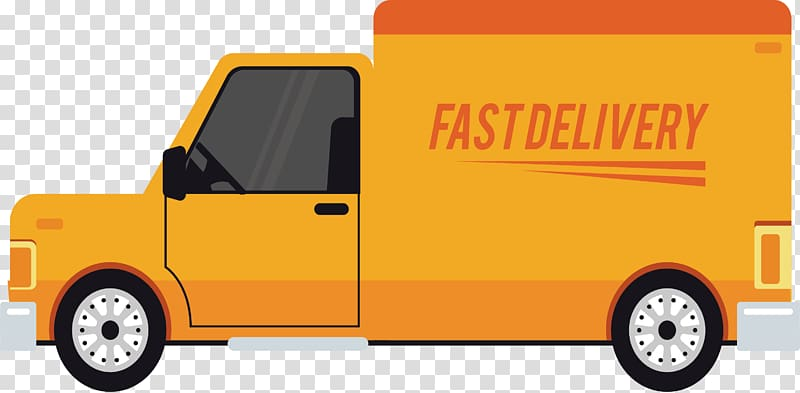
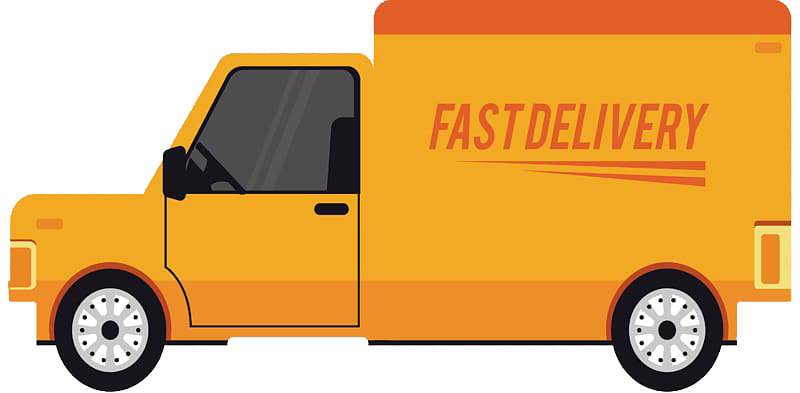
Update

diff --git a/public/css/main/pay&del.css b/public/css/main/pay&del.css
@@ -5,7 +5,7 @@
 
 .payanddelimg {
   margin-top: 20px;
-  width: 100%;
+  width: 70%;
   height: auto;
 }
 

diff --git a/app/Http/Controllers/Admin/ProductController.php b/app/Http/Controllers/Admin/ProductController.php
@@ -22,7 +22,7 @@ class ProductController extends Controller
      */
     public function index()
     {
-        $products = Product::all();
+        $products = Product::with('category')->get();
         return view('auth.products.index', compact('products'));
     }
 
@@ -52,7 +52,7 @@ class ProductController extends Controller
         'properties.*.value' => 'min:1',
         ]);
         $data = $request->all();
-        $data['url'] = mb_strtolower(preg_replace('/(?!^)\s+/', '_', preg_replace('/[^\00-\255]+/u', '', $request->name)));
+        $data['url'] = mb_strtolower(preg_replace('/(?!^)\s+/', '_', preg_replace('/[^\00-\255]+/u', '', $request->url)));
         $data['updated_at'] = Carbon::now();
         $data['created_at'] = Carbon::now();
         $product = Product::create($data);
@@ -67,14 +67,15 @@ class ProductController extends Controller
               $prodimg->storeAs('products/'.$product->id.'/', $dataimg['path']);
               ProductImage::create($dataimg);
             };
-          }else{
-            $dataimg['product_id'] = $product->id;
-            $dataimg['path'] = 'no-img.png';
-            $dataimg['position'] = "1";
-            $dataimg['updated_at'] = Carbon::now();
-            $dataimg['created_at'] = Carbon::now();
-            ProductImage::create($dataimg);
           };
+          // else{
+          //   $dataimg['product_id'] = $product->id;
+          //   $dataimg['path'] = '/img/products/no-img.png';
+          //   $dataimg['position'] = "1";
+          //   $dataimg['updated_at'] = Carbon::now();
+          //   $dataimg['created_at'] = Carbon::now();
+          //   ProductImage::create($dataimg);
+          // };
         return redirect()->route('products.index')->with('success', 'Продукт '.$product->name.' добавлен успешно!');
     }
 
@@ -117,7 +118,7 @@ class ProductController extends Controller
         'properties.*.value' => 'min:1',
         ]);
         $data = $request->all();
-        // $data['url'] = mb_strtolower(preg_replace('/(?!^)\s+/', '_', preg_replace('/[^\00-\255]+/u', '', $request->name)));
+        $data['url'] = mb_strtolower(preg_replace('/(?!^)\s+/', '_', preg_replace('/[^\00-\255]+/u', '', $request->url)));
         $data['updated_at'] = Carbon::now();
         $product->update($data);
         if(isset($request->imgfordel)){
@@ -146,7 +147,7 @@ class ProductController extends Controller
             ProductImage::create($dataimg);
           };
         };
-        return redirect()->route('products.edit', ['product' => $product->id])->with('success', 'Данные продукта '.$product->name.' успешно обновлен!');
+        return redirect()->route('products.edit', ['product' => $product->id])->with('success', 'Данные продукта '.$product->name.' успешно обновлены!');
     }
 
     /**
@@ -157,10 +158,12 @@ class ProductController extends Controller
      */
     public function destroy(Product $product)
     {
+      if($product->productImage){
         foreach ($product->productImage as $prod) {
           Storage::disk('public')->exists('products/'.$product->id.'/'.$prod->path)?Storage::disk('public')->delete('products/'.$product->id.'/'.$prod->path):NULL;
           $prod->delete();
         }
+      }
         $product->delete();
 
         return redirect()->route('products.index')->with('danger', 'Продукт '.$product->name.' успешно удален!');

diff --git a/resources/views/auth/products/form.blade.php b/resources/views/auth/products/form.blade.php
@@ -118,14 +118,14 @@
                         <label class="btn btn-dark btn-file">
                             Загрузить <input type="file" style="display: none;" name="prodimg[]" id="prodimg" multiple>
                         </label>
-                        @isset($product)
+                        @isset($product->productImage)
                             <div class="preview d-flex flex-wrap">
                           @foreach($product->productImage as $prodimg)
                             <a class="removeImgBtn" href="#">
-                              <img src="{{Storage::url('products/'.$product->id)}}/{{ $prodimg->path}}" alt="Preview images">
+                              <img src="{{Storage::url('products/'.$product->id.'/'.$prodimg->path)}}" alt="Preview images">
                               <span>Кликните для удаления</span>
                               <div class="d-none">{{$prodimg->path}}</div>
-                              <input type="hidden" name="imgfordel[]" id="imgfordel">
+                              <input type="hidden" name="imgfordel[]">
                             </a>
                           @endforeach
                             </div>
@@ -141,7 +141,7 @@
                   <div class="row">
                       <div class="col-lg-12">
                           @isset($product)
-                            @for ($i=0; $i < (is_countable($product->properties) && count($product->properties)); $i++)
+                            @for ($i=0; $i < (count($product->properties)); $i++)
                             <div id="inputFormRow">
                                 <div class="input-group mb-3">
                                       <input type="text" name="properties[{{ $i }}][key]" value="{{ $product->properties[$i]['key'] ?? '' }}" class="form-control m-input ml-3" placeholder="Свойство" autocomplete="off">
@@ -152,10 +152,11 @@
                                 </div>
                             </div>
                           @endfor
-                          <input type="hidden" id="icount" value="{{ is_countable($product->properties) && count($product->properties) }}">
+                          <input type="hidden" id="icount" value="{{ count($product->properties) }}">
                         @endisset
+                        @empty($product)
                           @if(Session::has('properties'))
-                            @for ($i=0; $i < (is_countable(Session::get('properties')) && count(Session::get('properties'))); $i++)
+                            @for ($i=0; $i < (count(Session::get('properties'))); $i++)
                             <div id="inputFormRow">
                                 <div class="input-group mb-3">
                                       <input type="text" name="properties[{{ $i }}][key]" value="{{ Session::get('properties')[$i]['key'] ?? '' }}" class="form-control m-input ml-3" placeholder="Свойство" autocomplete="off">
@@ -167,6 +168,7 @@
                             </div>
                           @endfor
                         @endif
+                      @endempty
                           <div id="newRow"></div>
                           <button id="addRow" type="button" class="btn btn-info">Добавить поле</button>
                       </div>

diff --git a/app/Http/Controllers/MainController.php b/app/Http/Controllers/MainController.php
@@ -10,15 +10,15 @@ use App\Models\Product;
 class MainController extends Controller
 {
   public function index(){
-    $proditem = Category::get();
+    $proditem = Category::with('products.cardImage')->get();
     return view('index', compact('proditem'));
   }
   public function categories($code){
-    $categories = Category::where('code', $code)->get();
+    $categories = Category::with('products.cardImage')->where('code', $code)->get();
     return view('categories', compact('categories'));
   }
   public function category($code, $url){
-    $category = Category::where('url', $url)->get();
+    $category = Category::with('products.cardImage')->where('url', $url)->get();
     return view('category', compact('category'));
   }
   public function product($code, $url, $suburl){

diff --git a/resources/views/products.blade.php b/resources/views/products.blade.php
@@ -70,7 +70,7 @@
       <div id="collapse_card_group" class="borderprop">
           <div class="collapse show" id="collapseExample_1" data-parent="#collapse_card_group">
             <table class="table table-bordered">
-              @for ($i=0; $i < (is_countable($prod->properties) && count($prod->properties)); $i++)
+              @for ($i=0; $i < (count($prod->properties)); $i++)
                 <tr>
                   <th scope="row">{{$prod->properties[$i]['key'] ?? ''}}:</th>
                   <td>{{ $prod->properties[$i]['value'] ?? ''}}</td>

diff --git a/app/Http/ViewComposers/NavigationComposer.php b/app/Http/ViewComposers/NavigationComposer.php
@@ -9,7 +9,7 @@ class NavigationComposer
 {
   public function compose(View $view)
   {
-      $catalog = Category::where('parent_id', NULL)->get();
+      $catalog = Category::with('children')->where('parent_id', NULL)->get();
       return $view->with('catalog', $catalog);
   }
 }

diff --git a/resources/views/paydel.blade.php b/resources/views/paydel.blade.php
@@ -309,6 +309,8 @@
         </div>
     </div>
   </div><!--End container-->
-  <img class="payanddelimg" src="/img/pay&del/pay&delimg.png ">
+  <div class="w-100 text-center">
+    <img class="payanddelimg" src="/img/pay&del/pay&delimg.png ">
+  </div>
 </section>
 @endsection
